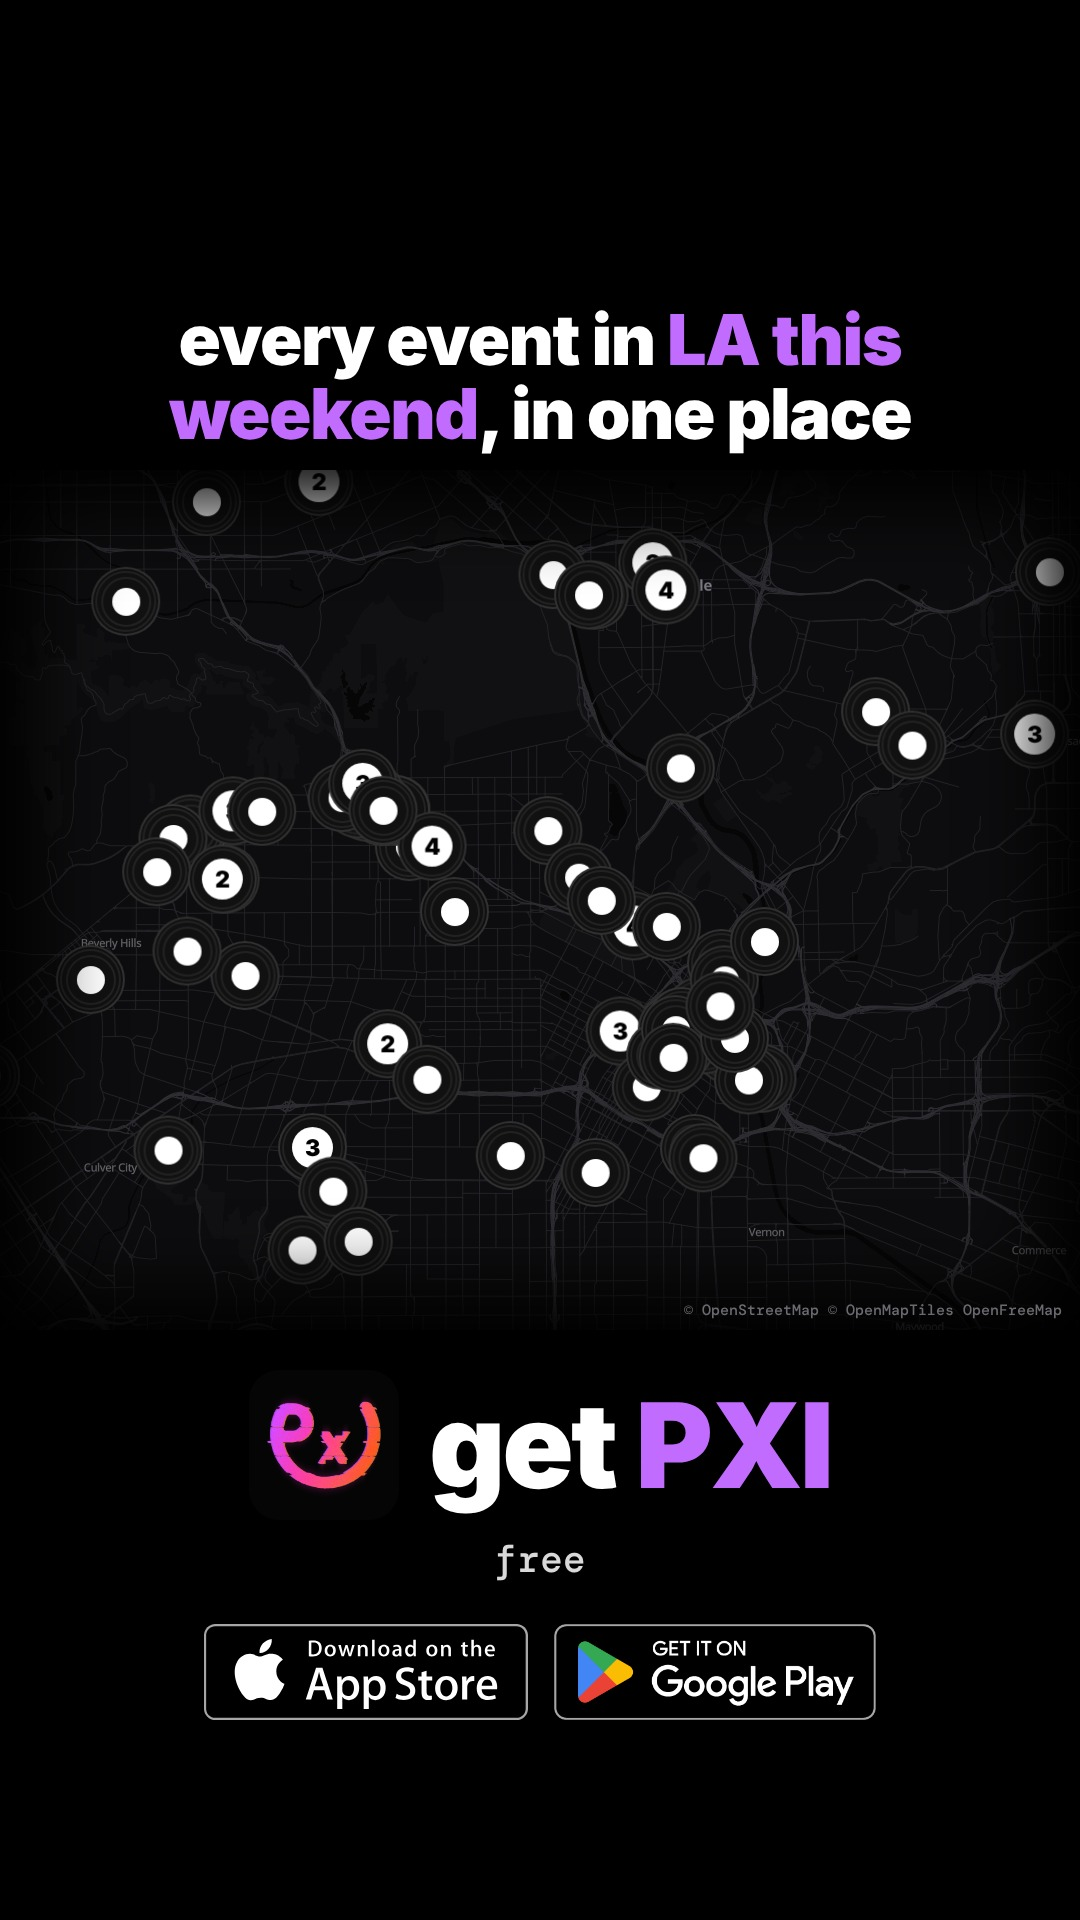
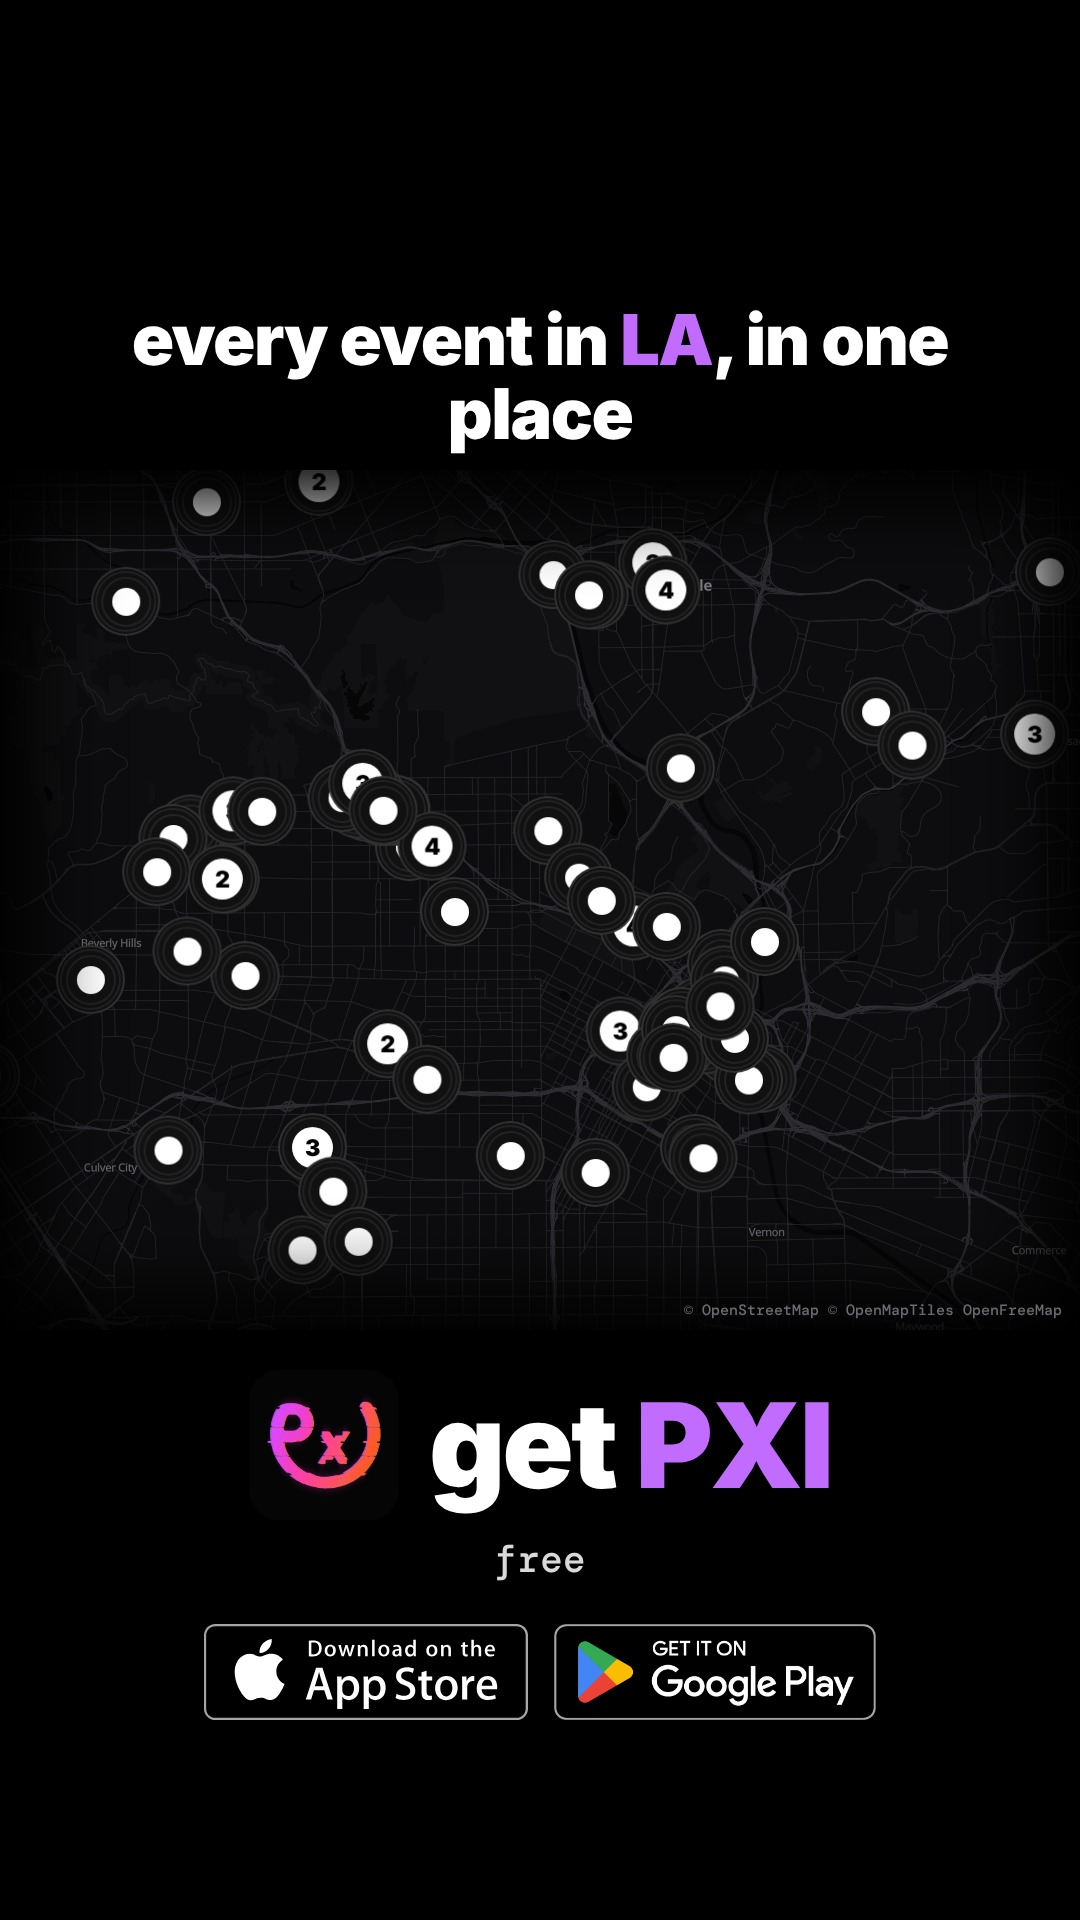
Thanksgiving carousel, LA: the cover and the map say "in LA" (founder, Nov 26)
Claude-Session: https://claude.ai/code/session_019i3sgX9J32sKfBsJBqzsN2

Changed region(s): [[0.1222, 0.1562, 0.8861, 0.25]]

diff --git a/videos/2026-11-26-la-tiktok/caption.md b/videos/2026-11-26-la-tiktok/caption.md
@@ -1,10 +1,10 @@
-**TikTok** (photo post, 9 slides; sound: the founder's pick, added by hand in the app; title: things to do in LA this Thanksgiving weekend)
+**TikTok** (photo post, 9 slides; sound: the founder's pick, added by hand in the app; title: things to do in LA)
 
-things to do in LA this weekend 🦃 tonight: JERK HOLLYWOOD (free), Lost Without R&B (free), the NIGHTSHIFT afters. Friday: Club Underground, Night Tales. Saturday: Little Tokyo at Kodama Lounge (free), Midnight Lovers. every event in LA on one map with pxi, free on iPhone and Android #thingstodoinla #thingstodoinlathisweekend #thanksgivinginla #losangeles #laevents
+things to do in LA 🦃 tonight: JERK HOLLYWOOD (free), Lost Without R&B (free), the NIGHTSHIFT afters. Friday: Club Underground, Night Tales. Saturday: Little Tokyo at Kodama Lounge (free), Midnight Lovers. every event in LA on one map with pxi, free on iPhone and Android #thingstodoinla #thingstodoinlosangeles #thanksgivinginla #losangeles #laevents
 
 **Instagram and Facebook** (carousel post, 9 slides, 1080x1350: `ig/1.jpg` to `ig/9.jpg`)
 
-things to do in LA this weekend 🦃 seven for Thanksgiving weekend, three of them free
+things to do in LA 🦃 seven for Thanksgiving weekend, three of them free
 
 tonight: JERK HOLLYWOOD at Taste of The Caribbean from 5 (free), Lost Without R&B at Lost But Found at 9 (free), the NIGHTSHIFT afters downtown from 11 (21+).
 Friday: Club Underground at the Grand Star Jazz Club at 9:30 (about $11), Night Tales at The Spotlight at 10 (about $25).
@@ -12,4 +12,4 @@ Saturday: Saturday Night in Little Tokyo at Kodama Lounge at 9 (free), Midnight 
 
 pxi is a free app to find things to do near you: every event in Los Angeles this weekend on one map, with its poster, place and price.
 
-#thingstodoinla #thingstodoinlathisweekend #thanksgivinginla #losangeles #pxi
+#thingstodoinla #thingstodoinlosangeles #thanksgivinginla #losangeles #pxi

diff --git a/videos/2026-11-26-la-tiktok/post.md b/videos/2026-11-26-la-tiktok/post.md
@@ -2,7 +2,7 @@
 
 The founder asked for it (Nov 26): "would you be able to schedule posts to go out tomorrow on tiktok with this audio https://www.tiktok.com/t/ZP9PVJdLvb7G3-u4LUM/ and ensure that the post start with carousel have events for tomorrow nice ones for thanksgiving day and end with cta? if not make the assets here in chat and i will post them myself", then "post them on ig too", then "maybe more on the things to do it will be nice and maybe the cta being our map to show that all event in one place get pxi would be better dot you think", then "ok you arent using our actual maps and how it looks and our logo isnt there on the last cta and we dont really need the list view im just saying more suggestions like the 2 you gave".
 
-Search phrase: things to do in la this weekend (the founder, Nov 26: "maybe 4 or so suggestion one more wont really do it": the app had only three Thursday cards, so the carousel became the Thanksgiving weekend)
+Search phrase: things to do in la (the founder: "why do you say this weekend after la, just saying in la is enough"); earlier: things to do in la this weekend (the founder, Nov 26: "maybe 4 or so suggestion one more wont really do it": the app had only three Thursday cards, so the carousel became the Thanksgiving weekend)
 
 - Slides: the intro (`studio/slide.cjs intro`); the Discover cards of JERK HOLLYWOOD, Lost Without R&B and AFTERS 11-26 (NIGHTSHIFT) (`studio/card.py --now "2026-11-26 16:00"`; these three are every Thursday listing the app makes a card, since a card needs a song); the closing map (`studio/map.cjs`: the app's own MapLibre style and records, a record for each of the night's 33 venues, the logo, get PXI, free, the badges).
 - TikTok: `1.jpg` to `5.jpg` (1080x1920), posted by hand by the founder with the sound from the link (an "original sound": Metricool cannot attach it, and it is not in Instagram's library). Caption in `caption.md`.
